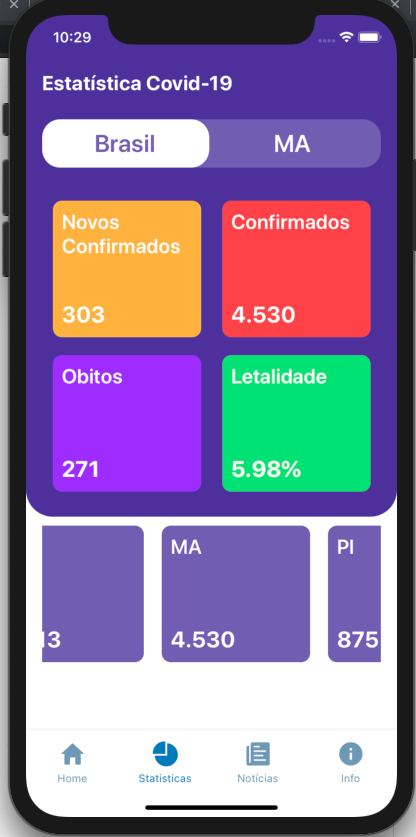
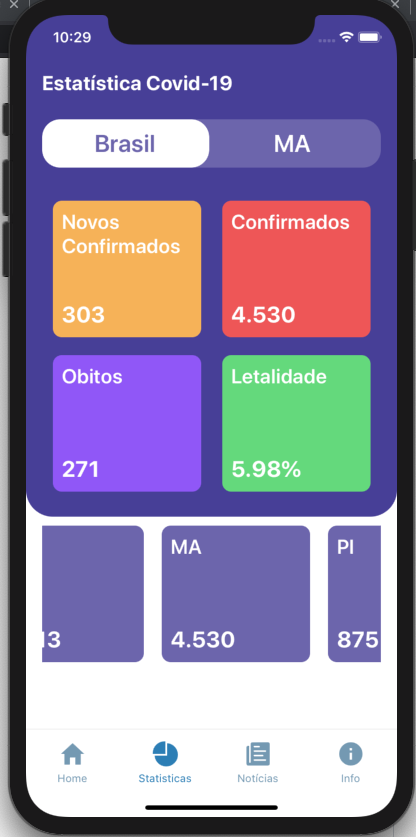
Add Data update and style of TabNavigation
Add Data update and style of TabNavigation

Changed region(s): [[0.125, 0.2174, 0.5, 0.5902], [0.5312, 0.4038, 0.9062, 0.5902], [0.375, 0.8698, 0.4375, 0.9319]]

diff --git a/src/screens/StatisticScreen/index.js b/src/screens/StatisticScreen/index.js
@@ -1,8 +1,8 @@
 import React, { useState, useEffect } from 'react';
 import SwitchButtom from '../../components/SwitchButtom';
 import CovidData from '../../components/CovidData';
-
 import { fetchData, fetchDataStates, fetchDataState } from '../../services/api';
+import moment from 'moment';
 
 import {
   Container,
@@ -14,6 +14,8 @@ import {
   Loading,
   FlatContainer,
   Buttom,
+  AvailableDate,
+  AvailableDateContainer,
 } from './styles.statistic';
 
 const StatisticScreen = () => {
@@ -47,7 +49,18 @@ const StatisticScreen = () => {
           <Header>
             <HeaderTitleContainer>
               <HeaderTitle>Estatística Covid-19</HeaderTitle>
+              <AvailableDateContainer>
+                <AvailableDate>Atualizado em:</AvailableDate>
+                <AvailableDate>
+                  {dataCoutry.updated_at
+                    ? moment.utc(dataCoutry.updated_at).format('DD MMM YYYY')
+                    : moment
+                        .utc(dataCoutry.last_available_date)
+                        .format('DD MMM YYYY')}
+                </AvailableDate>
+              </AvailableDateContainer>
             </HeaderTitleContainer>
+
             <SwitchButtom
               titleoff={dataCoutry.state ? dataCoutry.state : 'Geral'}
               titleon={'Brasil'}
@@ -95,29 +108,27 @@ const StatisticScreen = () => {
               />
             </BodyData>
           </Header>
-          <Body>
-            {!dataState ? (
-              <Loading />
-            ) : (
-              <FlatContainer
-                data={dataState.results}
-                keyExtractor={(item) => String(item.city_ibge_code)}
-                renderItem={({ item }) => (
-                  <Buttom
-                    onPress={() => handleFetchApiStateDetails(item.state)}
-                  >
-                    <CovidData
-                      color="#6C65AC"
-                      title={item.state}
-                      value={item.confirmed}
-                    />
-                  </Buttom>
-                )}
-              />
-            )}
-          </Body>
         </>
       )}
+      <Body>
+        {!dataState ? (
+          <Loading />
+        ) : (
+          <FlatContainer
+            data={dataState.results}
+            keyExtractor={(item) => String(item.city_ibge_code)}
+            renderItem={({ item }) => (
+              <Buttom onPress={() => handleFetchApiStateDetails(item.state)}>
+                <CovidData
+                  color="#6C65AC"
+                  title={item.state}
+                  value={item.confirmed}
+                />
+              </Buttom>
+            )}
+          />
+        )}
+      </Body>
     </Container>
   );
 };

diff --git a/src/navigation/TabNavigator.js b/src/navigation/TabNavigator.js
@@ -1,4 +1,5 @@
 import React from 'react';
+import { Platform } from 'react-native';
 import { createBottomTabNavigator } from '@react-navigation/bottom-tabs';
 import { createStackNavigator } from '@react-navigation/stack';
 
@@ -23,10 +24,28 @@ const TabNavigator = () => (
   <Tab.Navigator
     initialRouteName={INITIAL_ROUTE_NAME}
     tabBarOptions={{
-      activeTintColor: colors.primaryColor,
-      inactiveTintColor: colors.secondaryColor,
+      activeTintColor: colors.tabIconSelected,
+      inactiveTintColor: colors.tabIconDefault,
       labelStyle: { fontSize: 12 },
-      style: { height: hp('11%') },
+      style: {
+        height: hp('11%'),
+        width: wp('96%'),
+        marginHorizontal: hp('1%'),
+        borderRadius: 20,
+        marginBottom: 15,
+        paddingVertical: hp('1%'),
+
+        backgroundColor: colors.defaultColor,
+      },
+
+      /* style: {
+        height: hp('8%'),
+        width: wp('96%'),
+        backgroundColor: colors.defaultColor,
+        marginBottom: 15,
+        marginHorizontal: hp('1%'),
+        marginTop: -10, //Platform.OS === 'ios' ? -20 : 10,
+      }, */
     }}
   >
     <Tab.Screen

diff --git a/src/components/SelectButtom/styles.SelectButtom.js b/src/components/SelectButtom/styles.SelectButtom.js
@@ -1,0 +1,33 @@
+import styled from 'styled-components/native';
+import Colors from '../../../constants/Colors';
+import {
+  widthPercentageToDP as wp,
+  heightPercentageToDP as hp,
+} from 'react-native-responsive-screen';
+
+export const Container = styled.View`
+  justify-content: space-around;
+`;
+export const SelectContainer = styled.View`
+  width: ${wp('20%')}px;
+  height: ${hp('3.5%')}px;
+  background-color: #fff;
+  border-radius: ${wp('3  %')}px;
+  justify-content: center;
+  align-items: center;
+`;
+export const SelectText = styled.Text`
+  font-size: ${hp('2%')}px;
+  color: ${Colors.defaultColor};
+  font-weight: bold;
+`;
+
+export const TitleContainer = styled.View`
+  width: ${wp('20%')}px;
+  height: ${hp('10%')}px;
+  background-color: #3cc;
+  border-radius: ${wp('3%')}px;
+  justify-content: center;
+  align-items: center;
+`;
+export const ModalContainer = styled.Modal``;

diff --git a/src/screens/StatisticScreen/styles.statistic.js b/src/screens/StatisticScreen/styles.statistic.js
@@ -21,6 +21,9 @@ export const Header = styled.View`
 export const HeaderTitleContainer = styled.View`
   margin-top: ${hp('7%')}px;
   margin-bottom: ${hp('3%')}px;
+  flex-direction: row;
+  justify-content: space-between;
+  align-items: center;
 `;
 export const HeaderTitle = styled.Text`
   font-size: ${hp('2.5%')}px;
@@ -52,4 +55,14 @@ export const Buttom = styled(RectButton)`
 export const FlatContainer = styled.FlatList.attrs({ horizontal: true })`
   padding: 0px 0 30px 0px;
   width: 100%;
+`;
+export const AvailableDate = styled.Text`
+  font-size: ${hp('1.2%')}px;
+  color: #fff;
+  font-weight: 300;
+`;
+
+export const AvailableDateContainer = styled.View`
+  justify-content: center;
+  align-items: flex-start;
 `;

diff --git a/src/components/CovidData/index.js b/src/components/CovidData/index.js
@@ -1,15 +1,18 @@
 import React from 'react';
+import Shimmer from 'react-native-shimmer';
 
 import { Container, DataTitle, DataValue, Loading } from './styles.CovidData';
 
 const CovidData = ({ color, title, value }) => (
   <Container style={{ backgroundColor: color }}>
     <DataTitle>{title}</DataTitle>
-    <DataValue>
-      {value
-        ? value.toString().replace(/\B(?=(\d{3})+(?!\d))/g, '.')
-        : 'carregando..'}
-    </DataValue>
+    {value ? (
+      <DataValue>
+        {value.toString().replace(/\B(?=(\d{3})+(?!\d))/g, '.')}
+      </DataValue>
+    ) : (
+      <Loading />
+    )}
   </Container>
 );
 

diff --git a/src/components/SelectButtom/index.js b/src/components/SelectButtom/index.js
@@ -1,0 +1,31 @@
+import React from 'react';
+import { View } from 'react-native';
+
+import {
+  Container,
+  SelectText,
+  TitleContainer,
+  SelectContainer,
+  ModalContainer,
+} from './styles.SelectButtom';
+
+const SelectButtom = () => {
+  return (
+    <Container>
+      <SelectContainer>
+        <SelectText>BR</SelectText>
+      </SelectContainer>
+
+      <TitleContainer>
+        <ModalContainer
+          animationType="slide"
+          transparent={true}
+          visible={false}
+          onShow={false}
+        />
+      </TitleContainer>
+    </Container>
+  );
+};
+
+export default SelectButtom;

diff --git a/src/navigation/TabIcon.js b/src/navigation/TabIcon.js
@@ -7,9 +7,9 @@ export default function TabBarIcon(props) {
   return (
     <Ionicons
       name={props.name}
-      size={32}
-      style={{ marginBottom: 0, marginTop: 10 }}
-      color={props.focused ? Colors.primaryColor : Colors.secondaryColor}
+      size={36}
+      style={{ paddingBottom: 5 }}
+      color={props.focused ? Colors.tabIconSelected : Colors.tabIconDefault}
     />
   );
 }

diff --git a/constants/Colors.js b/constants/Colors.js
@@ -3,7 +3,7 @@ const tintColor = '#2f95dc';
 export default {
   tintColor,
   tabIconDefault: '#ccc',
-  tabIconSelected: tintColor,
+  tabIconSelected: '#7499B2',
   tabBar: '#fefefe',
   errorBackground: 'red',
   errorText: '#fff',
@@ -13,4 +13,5 @@ export default {
   noticeText: '#fff',
   primaryColor: '#2C7EB5',
   secondaryColor: '#7499B2',
+  defaultColor: '#473f97',
 };

diff --git a/src/components/SwitchButtom/styles.SwitchButtom.js b/src/components/SwitchButtom/styles.SwitchButtom.js
@@ -11,7 +11,7 @@ export const Container = styled.View`
   background-color: #6c65ac;
   border-radius: 20px;
   flex-direction: row;
-  margin-bottom: ${hp('3%')};
+  margin-bottom: ${hp('3%')}px;
 `;
 
 export const Buttom = styled(RectButton)`

diff --git a/src/components/CovidData/styles.CovidData.js b/src/components/CovidData/styles.CovidData.js
@@ -28,5 +28,5 @@ export const DataValue = styled.Text`
 
 export const Loading = styled.ActivityIndicator.attrs({
   size: 'large',
-  color: '#0000ff',
+  color: '#fff',
 })``;
